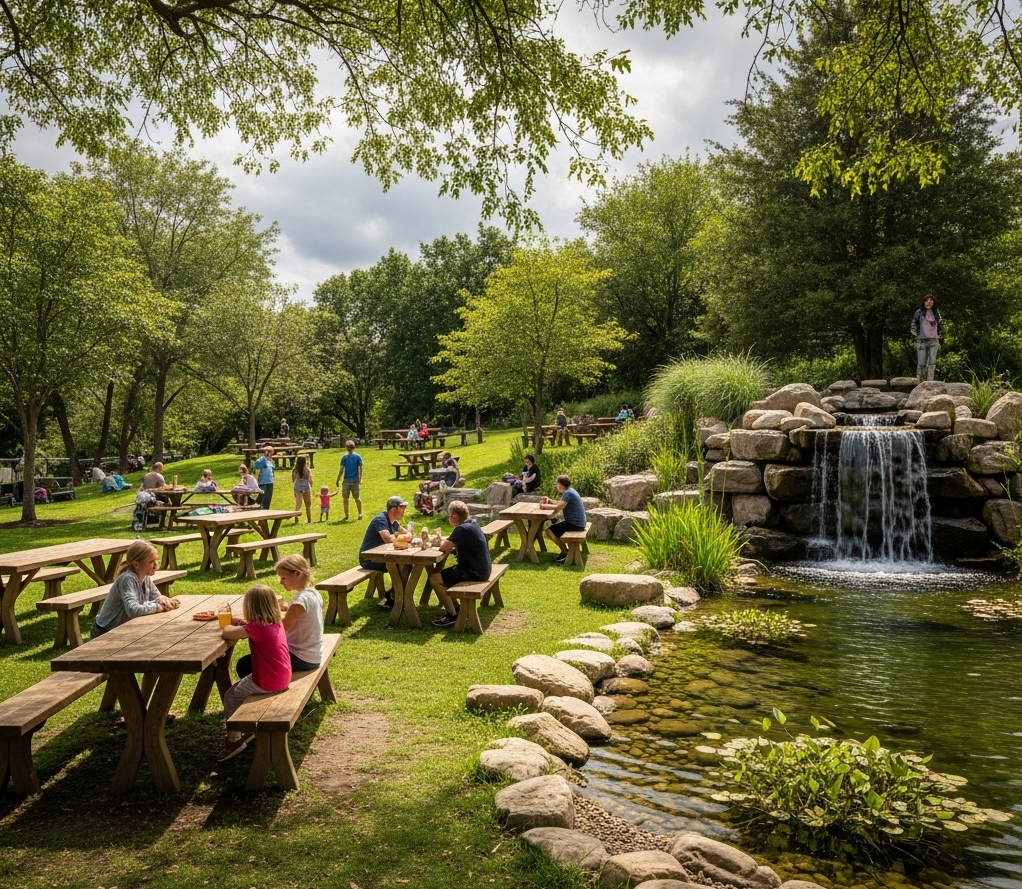
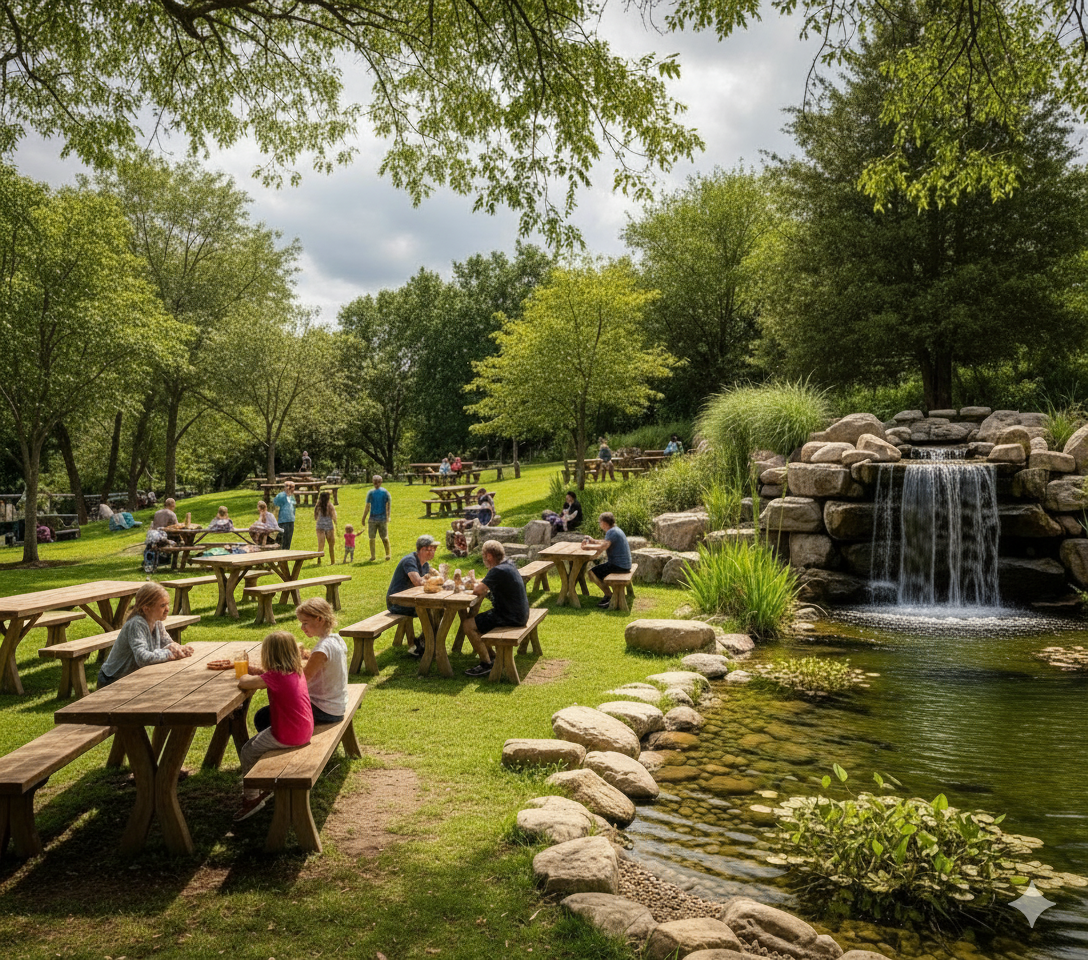
fix hero

diff --git a/index.html b/index.html
@@ -61,7 +61,7 @@
     <section
       class="hero"
       id="top"
-      style="--hero-image: url('assets/hero.jpg')"
+      style="--hero-image: url('assets/hero.png')"
       aria-label="Welcome to Williams Western Park"
     >
       <div class="container hero-inner">
@@ -131,8 +131,8 @@
               <h4>Pioneer Town</h4>
               <p>
                 A mini main street with climbable storefronts, a “bank” tunnel
-                maze, swinging saloon doors, and a hand-crank bell tower for
-                imaginative play.
+                maze, swinging saloon doors and a bell tower for imaginative
+                play.
               </p>
             </div>
           </article>
@@ -146,7 +146,7 @@
             <div class="card-body">
               <h4>Frontier Towers</h4>
               <p>
-                Two Lookout towers, rope bridges and twisty slides. A zip-line
+                Two lookout towers, rope bridges and twisty slides. A zip-line
                 glide for big-kid thrills
               </p>
             </div>
@@ -193,7 +193,7 @@
               <h4>Little Homesteaders</h4>
               <p>
                 A fenced toddler zone with low climbers, musical panels, gentle
-                slides, and benches for relaxation.
+                slides and benches for relaxation.
               </p>
             </div>
           </article>
@@ -204,7 +204,7 @@
             <div class="card-body">
               <h4>Prairie Gardens</h4>
               <p>
-                Landscaped gardens, porch-style swings, and quiet places for
+                Landscaped gardens, porch-style swings and quiet places for
                 relaxing.
               </p>
             </div>
@@ -264,7 +264,8 @@
               open-air concerts.
             </li>
             <li>
-              <strong>Learn Frontier Skills</strong> (seasonal): Pioner crafts, cooking classes.
+              <strong>Learn Frontier Skills</strong> (seasonal): Pioner crafts,
+              cooking classes.
             </li>
             <li>
               <strong>Starlight Cinema</strong> (summer): Outdoor family movies
@@ -275,9 +276,7 @@
               cleanups.
             </li>
           </ul>
-          <a class="btn btn-primary btn-calendar" href="#support"
-            >See Calendar</a
-          >
+          <button class="btn btn-primary btn-calendar">See Calendar</button>
         </div>
       </div>
     </section>

diff --git a/index.css b/index.css
@@ -266,8 +266,7 @@ body.drawer-open .menu-toggle .hamburger .bar:nth-child(3) {
   width: 100%;
   display: grid;
   place-items: center;
-  background: linear-gradient(180deg, rgba(0, 0, 0, 0.35), rgba(0, 0, 0, 0.25)),
-    var(--hero-image) center/cover no-repeat;
+  background: var(--hero-image) center/cover no-repeat;
   color: #fff;
   text-align: center;
 
@@ -320,6 +319,7 @@ h3 {
   background: var(--brand);
   color: #fff;
   font-size: 17px;
+  cursor: pointer;
 }
 .btn-primary:hover {
   background: var(--brand-dark);
